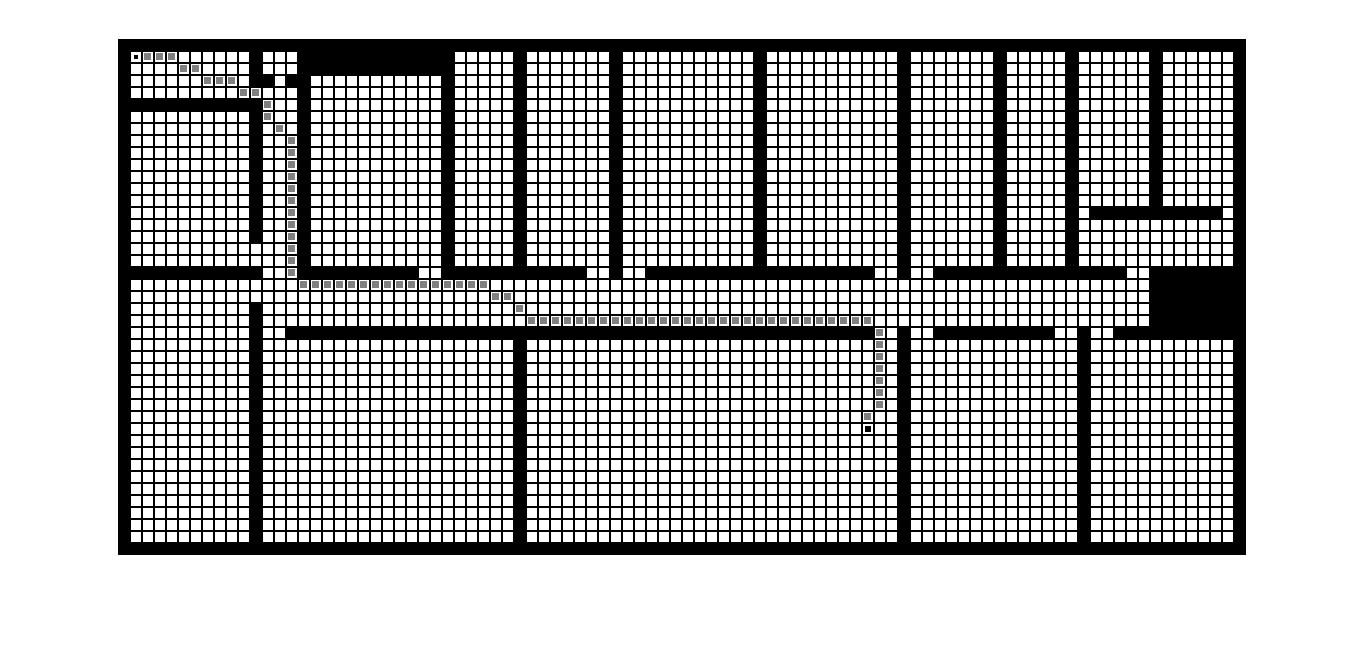
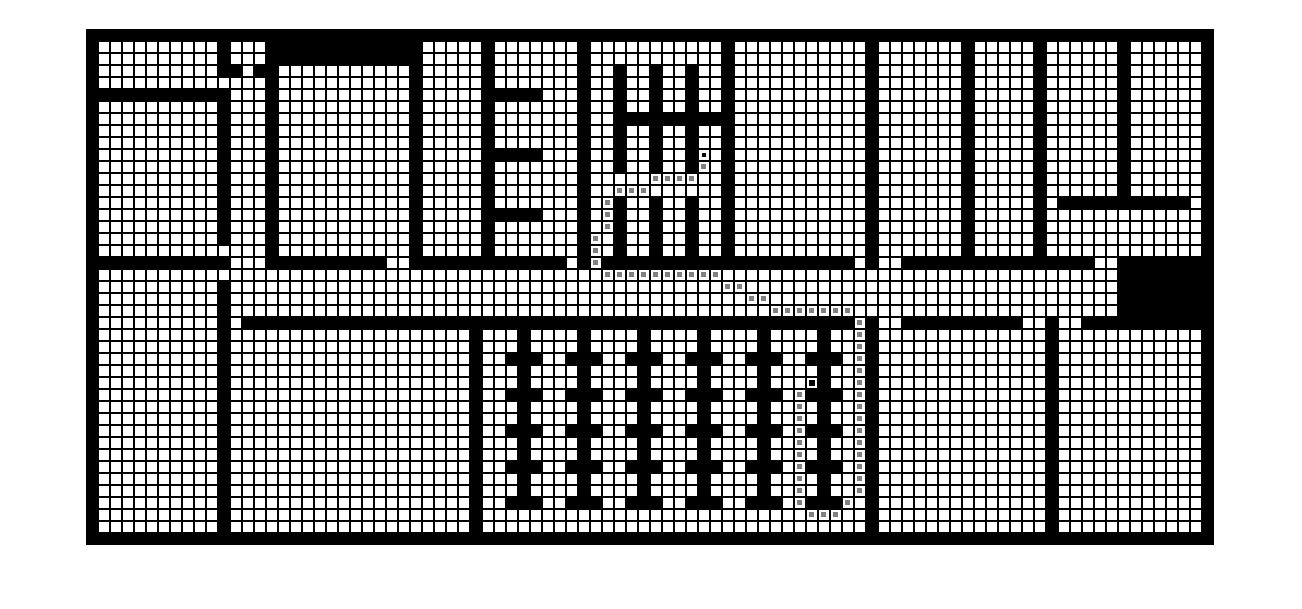
'增加了702和715房间的工位表示，修改了地图的表示方法，显得更加直观'

diff --git a/VisualizePath.m b/VisualizePath.m
@@ -2,7 +2,7 @@ function [map] = VisualizePath (path, map)
  for i=1:length(path(:,1))-1
      x=6+(path(i,1)-1)*12;
      y=6+(path(i,2)-1)*12;
-     map(x-3:x+3,y-3:y+3)=0.5;
+     map(x-2:x+2,y-2:y+2)=0.5;
  end
 imshow(map);
 end
